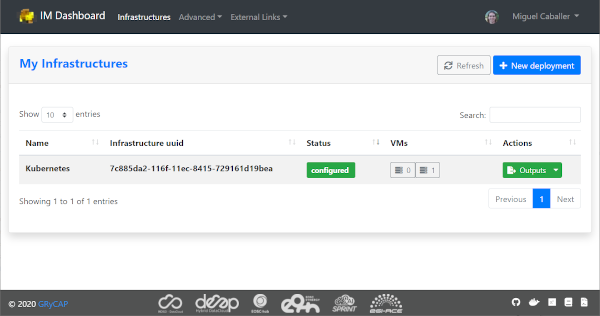
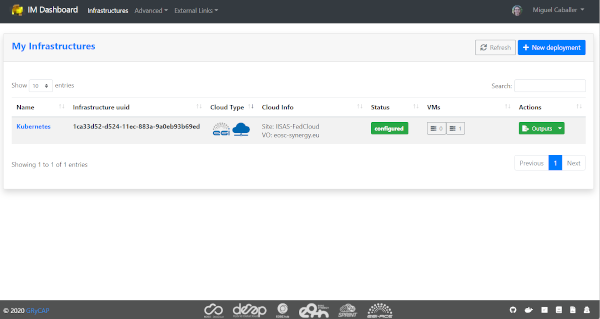
Update dash docs

diff --git a/doc/source/dashboard.rst b/doc/source/dashboard.rst
@@ -297,24 +297,24 @@ displayed on the right bottom corner. An special "tag" is the elastic one that a
 that are configured to automatically manage the elasticity of the deployed cluster.
 
 The user have to click on the "Configure" button to set the input values of the TOSCA template and 
-also to select the VO, Site and Image to deploy the infrastructure (:ref:`Fig. 4 <figure_dash_configure>`).
+also to select the VO, Site and Image to deploy the infrastructure (:ref:`Fig. 6 <figure_dash_configure>`).
 
 .. _figure_dash_configure:
 .. figure:: images/dash_configure.png
 
-   Fig 4. List of TOSCA templates.
+   Fig 6. List of TOSCA templates.
 
 Initially the user can set a name to describe the infrastructure to be deployed. It will make easier to list infrastructures.
 In the firsts tabs the user can introduce the set of input values of the toplogy. By default there is only one tab
-called "Input Values" (:ref:`Fig. 5 <figure_dash_inputs>`), but the TOSCA developer can add/rename them to make 
+called "Input Values" (:ref:`Fig. 7 <figure_dash_inputs>`), but the TOSCA developer can add/rename them to make 
 easier the input values selection.
 
 .. _figure_dash_inputs:
 .. figure:: images/dash_inputs.png
 
-   Fig 5. TOSCA input values.
+   Fig 7. TOSCA input values.
 
-The final tab will be the "Cloud Provider Selection" (:ref:`Fig. 6 <figure_dash_site>`).
+The final tab will be the "Cloud Provider Selection" (:ref:`Fig. 8 <figure_dash_site>`).
 In this tab the user has to select: first, one of the Cloud providers that has been previously added (and not disabled) 
 in the "Cloud Crecentials" page, then it has to select the base image used to deploy the VMs.
 In case of EGI Cloud Compute sites the user has two options, he can select an image from the list of images provided by the
@@ -326,39 +326,42 @@ the user has to specify manually the AMI id of the image to use.
 .. _figure_dash_site:
 .. figure:: images/dash_site.png
 
-   Fig 6. Select Cloud Provider and Image.
+   Fig 8. Select Cloud Provider and Image.
 
 
 Infrastructures
 ^^^^^^^^^^^^^^^^
 
-This page will show the list of infrastructures deployed by the current user (:ref:`Fig. 7 <figure_dash_inf_list>`). The first column shows the name set
-by the user on infrastructure creation, then shows the ID assinged by the IM service, third column shows the current
-status of the infrastructure, fourth show the list of VMs with their IDs and finally appears a button with a set of
-actions to perform to it (:ref:`Fig. 8 <figure_dash_inf_actions>`).
+This page will show the list of infrastructures deployed by the current user (:ref:`Fig. 9 <figure_dash_inf_list>`).
+The first column shows the name set by the user on infrastructure creation, then shows the ID assinged by the IM service,
+third column shows the Cloud type where the infrastructure was deployed, next column shows information about the Cloud
+provider, fifth column shows the current status of the infrastructure, sixth one shows the list of VMs with their IDs and
+finally appears a button with a set of actions to perform to it (:ref:`Fig. 10 <figure_dash_inf_actions>`). Columns
+"Cloud Type" and "Cloud Info" were added in version 2.2.0, infrastructures launched with previous versions will have
+both columns empty.
 
 
 .. _figure_dash_inf_list:
 .. figure:: images/dash_inf_list.png
 
-   Fig 7. List of infrastructures.
+   Fig 9. List of infrastructures.
 
 
 .. _figure_dash_inf_actions:
 .. figure:: images/dash_inf_actions.png
 
-   Fig 8. List of infrastructure Actions.
+   Fig 10. List of infrastructure Actions.
 
 **List of Actions**:
 
 * Add nodes: The Add nodes action enables to add new VMs to the users' deployment. As depicted in
-  :ref:`Fig. 9 <figure_dash_add_nodes>` it will show the list of different types of nodes currently deployed in 
+  :ref:`Fig. 11 <figure_dash_add_nodes>` it will show the list of different types of nodes currently deployed in 
   the infrastructure and the user have to set the number of nodes of each type he wants to deploy.
 
 .. _figure_dash_add_nodes:
 .. figure:: images/dash_add_nodes.png
 
-   Fig 9. Add nodes page.
+   Fig 11. Add nodes page.
 
 * Show template: This action shows the original TOSCA template submitted to create the infrastructure.
 
@@ -374,7 +377,7 @@ actions to perform to it (:ref:`Fig. 8 <figure_dash_inf_actions>`).
 .. _figure_dash_outputs:
 .. figure:: images/dash_outputs.png
 
-   Fig 10. TOSCA outputs.
+   Fig 12. TOSCA outputs.
 
 * Delete: Delete this infrastructure and all the asociated resources. It also has the option to "Force" de deletion.
   In this case the infrastructure will be removed from the IM service even if some cloud resources cannot be deleted.
@@ -395,7 +398,7 @@ actions to perform to it (:ref:`Fig. 8 <figure_dash_inf_actions>`).
 .. _figure_dash_change_user:
 .. figure:: images/dash_change_user.png
 
-   Fig 11. Change/Add User modal form.
+   Fig 13. Change/Add User modal form.
 
 **VM Info page**:
 
@@ -409,12 +412,12 @@ the SSH credentials needed to access it. Second table will show other additional
 .. _figure_dash_vm_info:
 .. figure:: images/dash_vm_info.png
 
-   Fig 12. VM Info page.
+   Fig 14. VM Info page.
 
 In case of Resizing the VM the user must provide the new size of the VM in terms of number of CPUs and ammount of memory as
-show in :ref:`Fig. 12 <figure_dash_vm_resize>`.
+show in :ref:`Fig. 15 <figure_dash_vm_resize>`.
 
 .. _figure_dash_vm_resize:
 .. figure:: images/dash_vm_resize.png
 
-   Fig 12. VM Resize modal form.
+   Fig 15. VM Resize modal form.
